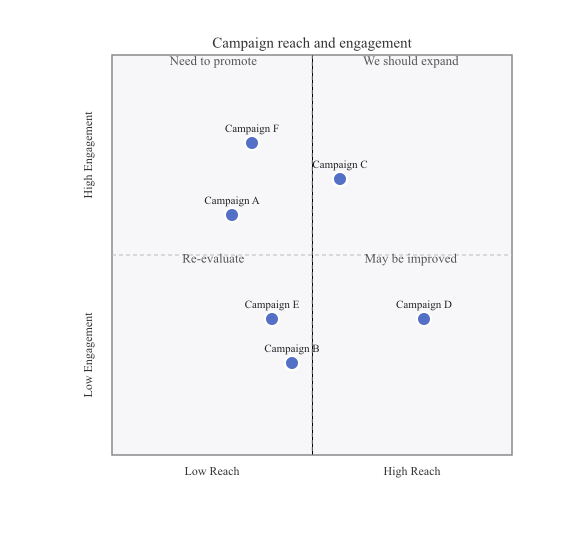
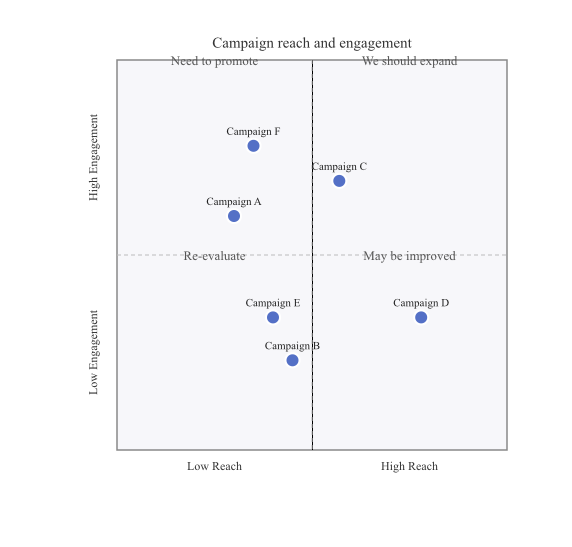
quadrant: pad is an outer margin, not an inner gutter (codex)
PR review (chatgpt-codex-connector P1):

The previous implementation split QuadrantPadding as an inner gutter
(½ pad on each shared edge), but Mermaid's spec field is documented
as "padding around the quadrant" — an outer margin of the entire
four-rect block, with the quadrants themselves still sharing inner
edges. Worse, my dividers, points and axis labels still used the
unpadded plot extents, so any chart with per-quadrant fills + non-
zero pad would render data points outside the colored quadrant area.

Fix: shrink plotX0/plotY0/plotX1/plotY1 (and plotSide) by pad
uniformly upfront. Everything that follows — fills, outer border,
divider lines, points, axis labels, quadrant titles — uses the same
padded inner rect, so the layout stays internally consistent at any
pad value. The quadrant rects share inner edges at midX/midY (no
gutter).

Tests reworked accordingly:
- TestRenderQuadrantPaddingWired: Δwidth == −Δpad (was 1.5×Δpad);
  adjacent rects must share inner edges (gap == 0); horizontal
  centring of titles preserved.
- TestRenderQuadrantPaddingShrinksSingleRect: replaces the prior
  "no-fills path unaffected" — single-rect path NOW also shrinks
  by 2×Δpad, since padding is an outer margin around the whole
  quadrant area.
- TestRenderQuadrantPaddingDefault: default config vs pad=20
  asserts the 15px width delta (was a pad=0 vs pad=default
  comparison, which collided with mergeF's "inherit-on-zero" rule).

Snapshots regenerated.
[…]

diff --git a/pkg/renderer/quadrant/renderer_test.go b/pkg/renderer/quadrant/renderer_test.go
@@ -665,9 +665,10 @@ func TestResolveConfigSingleAxisDimension(t *testing.T) {
 	}
 }
 
-// Visible gap between adjacent rects must equal pad exactly
-// (½ pad contributed by each neighbour). Asserts both axes plus
-// horizontal centring of the quadrant title.
+// QuadrantPadding is an outer margin around the quadrant area:
+// adjacent rects share inner edges (no gutter), and increasing pad
+// shrinks the four-rect block uniformly inward. Asserts both axes
+// plus horizontal centring of the quadrant title.
 func TestRenderQuadrantPaddingWired(t *testing.T) {
 	d := &diagram.QuadrantChartDiagram{
 		Title:     "padding test",
@@ -689,28 +690,27 @@ func TestRenderQuadrantPaddingWired(t *testing.T) {
 	}
 	const small, big = 5.0, 25.0
 
+	// Each quadrant rect's width is plotSide/2 − pad (only the outer
+	// edge insets; inner edge stays at midX), so Δwidth == −Δpad.
 	wSmall := attrFloat(t, render(small), "fill:#fee2e2", "width")
 	wBig := attrFloat(t, render(big), "fill:#fee2e2", "width")
-	if want := 1.5 * (big - small); math.Abs((wSmall-wBig)-want) > 0.5 {
-		t.Errorf("expected Q1 width to shrink by ~%vpx (1.5*Δpad), got %v", want, wSmall-wBig)
+	if want := big - small; math.Abs((wSmall-wBig)-want) > 0.5 {
+		t.Errorf("expected Q1 width to shrink by ~%vpx (Δpad), got %v", want, wSmall-wBig)
 	}
 
 	svg := render(big)
-	// Vertical inner edge: Q1 left − Q2 right == pad.
+	// Adjacent rects share inner edges — no gutter between them.
 	q1Left := attrFloat(t, svg, "fill:#fee2e2", "x")
 	q2Left := attrFloat(t, svg, "fill:#dbeafe", "x")
 	q2Width := attrFloat(t, svg, "fill:#dbeafe", "width")
-	if gap := q1Left - (q2Left + q2Width); math.Abs(gap-big) > 0.01 {
-		t.Errorf("expected exact gap of %v between Q2 right and Q1 left edges, got %v", big, gap)
+	if gap := q1Left - (q2Left + q2Width); math.Abs(gap) > 0.01 {
+		t.Errorf("Q1 and Q2 must share an inner edge, got gap=%v", gap)
 	}
-	// Horizontal inner edge: Q4 top − Q1 bottom == pad. Catches a
-	// transposed-axis regression that swaps the half/pad split on
-	// x vs y dimensions.
 	q1Top := attrFloat(t, svg, "fill:#fee2e2", "y")
 	q1Height := attrFloat(t, svg, "fill:#fee2e2", "height")
 	q4Top := attrFloat(t, svg, "fill:#fef3c7", "y")
-	if gap := q4Top - (q1Top + q1Height); math.Abs(gap-big) > 0.01 {
-		t.Errorf("expected exact gap of %v between Q1 bottom and Q4 top edges, got %v", big, gap)
+	if gap := q4Top - (q1Top + q1Height); math.Abs(gap) > 0.01 {
+		t.Errorf("Q1 and Q4 must share an inner edge, got gap=%v", gap)
 	}
 	// Title horizontal centring: Q1 label x must equal Q1 rect's
 	// x-centre.
@@ -722,32 +722,40 @@ func TestRenderQuadrantPaddingWired(t *testing.T) {
 	}
 }
 
-// Single-rect path (no per-quadrant fills) must ignore
-// QuadrantPadding — the underlying plot rect spans plotX0..plotX1
-// regardless of the configured padding.
-func TestRenderQuadrantPaddingNoFillsUnaffected(t *testing.T) {
+// Single-rect path (no per-quadrant fills) shrinks under
+// QuadrantPadding too — pad is an outer margin around the quadrant
+// area regardless of fill configuration. The PlotFill rect's width
+// must drop by Δpad.
+func TestRenderQuadrantPaddingShrinksSingleRect(t *testing.T) {
 	d := &diagram.QuadrantChartDiagram{
 		Quadrant1: "Q1", Quadrant2: "Q2", Quadrant3: "Q3", Quadrant4: "Q4",
 	}
-	out0, err := Render(d, &Options{Config: Config{QuadrantPadding: 0}})
-	if err != nil {
-		t.Fatalf("Render: %v", err)
+	render := func(pad float64) string {
+		out, err := Render(d, &Options{Config: Config{QuadrantPadding: pad}})
+		if err != nil {
+			t.Fatalf("Render: %v", err)
+		}
+		return string(out)
 	}
-	out25, err := Render(d, &Options{Config: Config{QuadrantPadding: 25}})
-	if err != nil {
-		t.Fatalf("Render: %v", err)
+	plotRectRe := regexp.MustCompile(`<rect[^>]*width="([0-9.]+)"[^>]*style="fill:#f7f7fa[^"]*"[^>]*>`)
+	widthOf := func(svg string) float64 {
+		m := plotRectRe.FindStringSubmatch(svg)
+		if m == nil {
+			t.Fatalf("missing PlotFill rect in:\n%s", svg)
+		}
+		v, err := strconv.ParseFloat(m[1], 64)
+		if err != nil {
+			t.Fatalf("malformed width %q: %v", m[1], err)
+		}
+		return v
 	}
-	// The plot rect is the first style="fill:<PlotFill>". Strip the
-	// background rect by skipping the first occurrence of fill:#fff
-	// (default Background).
-	plotRectRe := regexp.MustCompile(`<rect[^>]*style="fill:#f7f7fa[^"]*"[^>]*>`)
-	r0 := plotRectRe.FindString(string(out0))
-	r25 := plotRectRe.FindString(string(out25))
-	if r0 == "" || r25 == "" {
-		t.Fatalf("missing plot rect in output (PlotFill=#f7f7fa)\nout0=%s\nout25=%s", out0, out25)
-	}
-	if r0 != r25 {
-		t.Errorf("single-rect path must ignore QuadrantPadding; got different rects:\n  pad=0:  %s\n  pad=25: %s", r0, r25)
+	const small, big = 5.0, 25.0
+	// Plot rect shrinks by 2*Δpad (full pad on both left and right
+	// outer edges).
+	wSmall := widthOf(render(small))
+	wBig := widthOf(render(big))
+	if want := 2 * (big - small); math.Abs((wSmall-wBig)-want) > 0.5 {
+		t.Errorf("expected plot rect to shrink by ~%vpx (2*Δpad), got %v", want, wSmall-wBig)
 	}
 }
 
@@ -780,9 +788,10 @@ func TestRenderQuadrantPaddingClampedAtPlotSize(t *testing.T) {
 	}
 }
 
-// Default Config (zero value) must render with the spec-default 5px
-// gap. A regression that drops the default-resolution path would
-// silently produce a gap-less plot here.
+// Default Config (zero value) resolves to the spec-default 5px
+// padding via mergeF's "inherit on zero" rule. A regression that
+// drops the default-resolution path would yield pad=0 here.
+// Compared against an explicit pad=20 (Δ=15px).
 func TestRenderQuadrantPaddingDefault(t *testing.T) {
 	d := &diagram.QuadrantChartDiagram{
 		Quadrant1: "Q1", Quadrant2: "Q2", Quadrant3: "Q3", Quadrant4: "Q4",
@@ -790,16 +799,19 @@ func TestRenderQuadrantPaddingDefault(t *testing.T) {
 	pal := [4]QuadrantPalette{
 		{Fill: "#fee2e2"}, {Fill: "#dbeafe"}, {Fill: "#dcfce7"}, {Fill: "#fef3c7"},
 	}
-	out, err := Render(d, &Options{Theme: Theme{Quadrants: pal}}) // no Config.
+	defaultOut, err := Render(d, &Options{Theme: Theme{Quadrants: pal}})
 	if err != nil {
 		t.Fatalf("Render: %v", err)
 	}
-	q1Left := attrFloat(t, string(out), "fill:#fee2e2", "x")
-	q2Left := attrFloat(t, string(out), "fill:#dbeafe", "x")
-	q2Width := attrFloat(t, string(out), "fill:#dbeafe", "width")
-	const specDefault = 5.0
-	if gap := q1Left - (q2Left + q2Width); math.Abs(gap-specDefault) > 0.01 {
-		t.Errorf("expected spec-default gap of %v between adjacent quadrants, got %v", specDefault, gap)
+	bigOut, err := Render(d, &Options{Theme: Theme{Quadrants: pal}, Config: Config{QuadrantPadding: 20}})
+	if err != nil {
+		t.Fatalf("Render: %v", err)
+	}
+	wDefault := attrFloat(t, string(defaultOut), "fill:#fee2e2", "width")
+	wBig := attrFloat(t, string(bigOut), "fill:#fee2e2", "width")
+	const expectedDelta = 20.0 - 5.0 // big − specDefault
+	if delta := wDefault - wBig; math.Abs(delta-expectedDelta) > 0.01 {
+		t.Errorf("expected width delta %v between default (5) and pad=20, got %v", expectedDelta, delta)
 	}
 }
 

diff --git a/pkg/renderer/quadrant/renderer.go b/pkg/renderer/quadrant/renderer.go
@@ -99,6 +99,21 @@ func Render(d *diagram.QuadrantChartDiagram, opts *Options) ([]byte, error) {
 	viewW := plotX1 + rightPad
 	viewH := plotY1 + bottomPad
 
+	// QuadrantPadding is an outer margin around the quadrant area:
+	// shrink the inner plot rect uniformly so the fills, divider
+	// lines, points and axis labels all live inside the same
+	// padded region. Cap at plotSide/4 so the inner rect stays
+	// non-degenerate for misconfigured pad values.
+	quadrantPad := cfg.QuadrantPadding
+	if maxPad := plotSide / 4; quadrantPad > maxPad {
+		quadrantPad = maxPad
+	}
+	plotX0 += quadrantPad
+	plotY0 += quadrantPad
+	plotX1 -= quadrantPad
+	plotY1 -= quadrantPad
+	plotSide -= 2 * quadrantPad
+
 	children := make([]any, 0, 20+2*len(d.Points))
 	if d.AccTitle != "" {
 		children = append(children, &svgTitle{Content: d.AccTitle})
@@ -116,23 +131,15 @@ func Render(d *diagram.QuadrantChartDiagram, opts *Options) ([]byte, error) {
 	midX := (plotX0 + plotX1) / 2
 	midY := (plotY0 + plotY1) / 2
 
-	// Inner edges split QuadrantPadding (½ each) so the visible gap
-	// between adjacent rects equals pad; outer edges take the full
-	// pad against the plot border. Each rect's width is therefore
-	// plotSide/2 − 1.5·pad; clamping at plotSide/4 keeps the rect
-	// at least plotSide/8 wide so a misconfigured pad can't degenerate
-	// the layout.
+	// All four quadrant rects share inner edges at midX/midY; the
+	// outer margin already lives in the padded plot rect computed
+	// above, so no per-rect inset is needed here.
 	type quadRect struct{ x0, y0, x1, y1 float64 }
-	pad := cfg.QuadrantPadding
-	if maxPad := plotSide / 4; pad > maxPad {
-		pad = maxPad
-	}
-	half := pad / 2
 	quadRects := [4]quadRect{
-		{midX + half, plotY0 + pad, plotX1 - pad, midY - half},
-		{plotX0 + pad, plotY0 + pad, midX - half, midY - half},
-		{plotX0 + pad, midY + half, midX - half, plotY1 - pad},
-		{midX + half, midY + half, plotX1 - pad, plotY1 - pad},
+		{midX, plotY0, plotX1, midY}, // Q1 top-right
+		{plotX0, plotY0, midX, midY}, // Q2 top-left
+		{plotX0, midY, midX, plotY1}, // Q3 bottom-left
+		{midX, midY, plotX1, plotY1}, // Q4 bottom-right
 	}
 	hasPerQuadrant := false
 	for _, q := range th.Quadrants {
